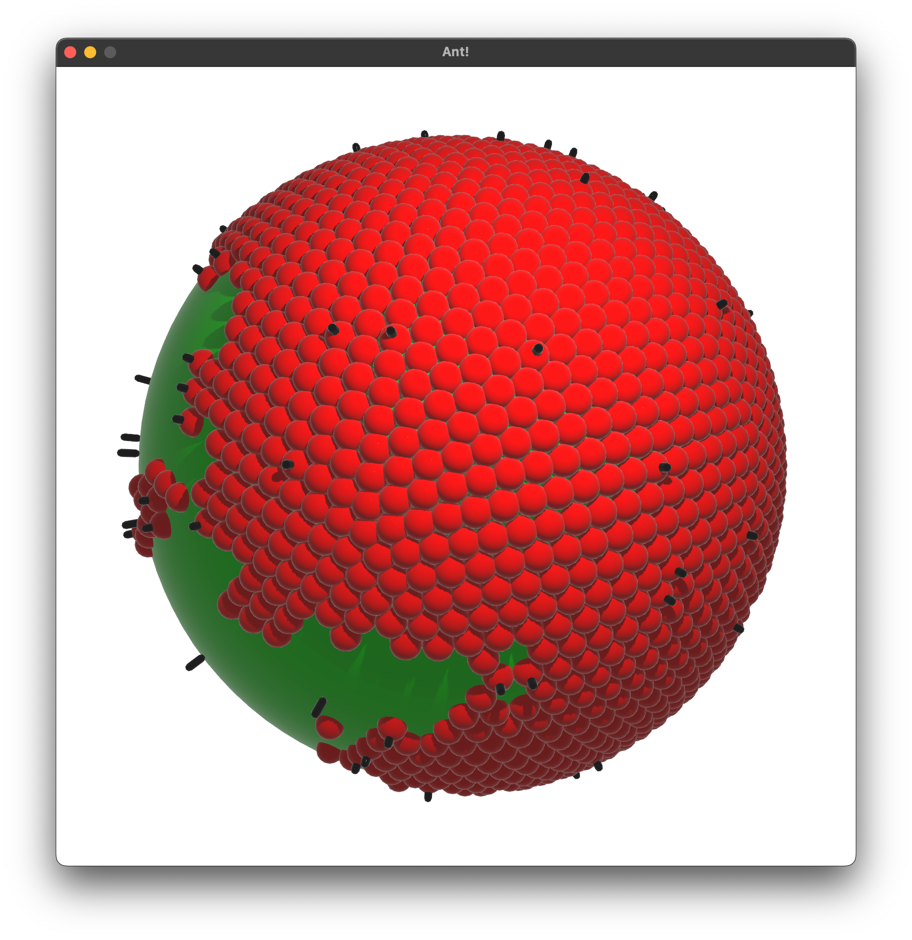
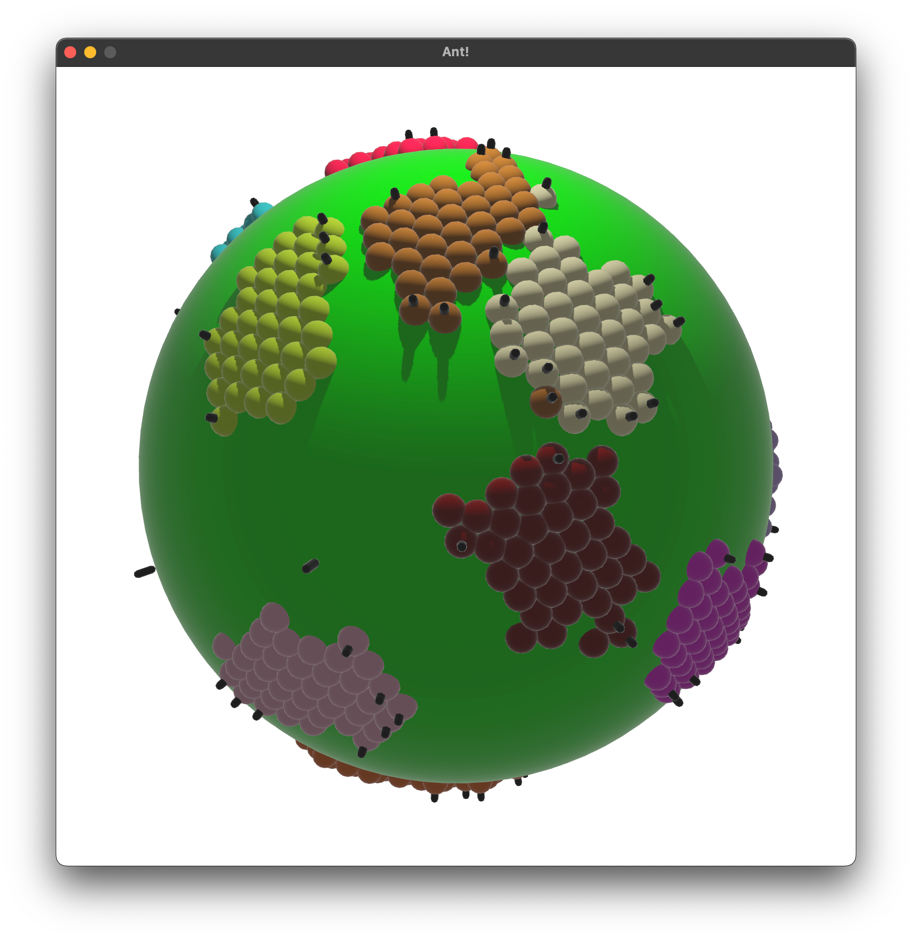
raio 1

diff --git a/README.md b/README.md
@@ -4,20 +4,23 @@ Simulation of Ant based clustering using Rust and Bevy.
 
 ![showcase.png](assets/img/showcase.png)
 
-## Gifs
+## 4 grupos e raio 1
 
-![radius-1.gif](assets/gif/radius_1.gif)
+![img.png](assets/img/img_04_1_1.png)
 
-![radius-2.gif](assets/gif/radius_2.gif)
+![img.png](assets/img/img_04_1_2.png)
 
-![radius-3.gif](assets/gif/radius_3.gif)
+## 15 grupos e raio 1
+
+![img.png](assets/img/img_15_1_1.png)
+
+![img.png](assets/img/img_15_1_2.png)
 
 ## Probability Function
 
-For each entity, the probability to pick up or drop an item is calculated by:
+A probabilidade de pegar e largar items é dada pelas seguinte fórmula encontrada no artigo "Ant-based Clustering Algorithms: A Brief
+Survey" de O.A. Mohamed Jafar e R. Sivakumar
 
-![equation.png](assets/img/equation.png)
+![img.png](assets/img/equation.png)
 
-The plot bellow exemplifies the relation between the ratio of visible items and the probability
-
-![probability_function.png](assets/img/probability_function.png)
+o parametro alpha foi ajustado empiricamente para um valor de 10.0 para a base de 4 grupos e 1.5 para a base de 15 grupos
